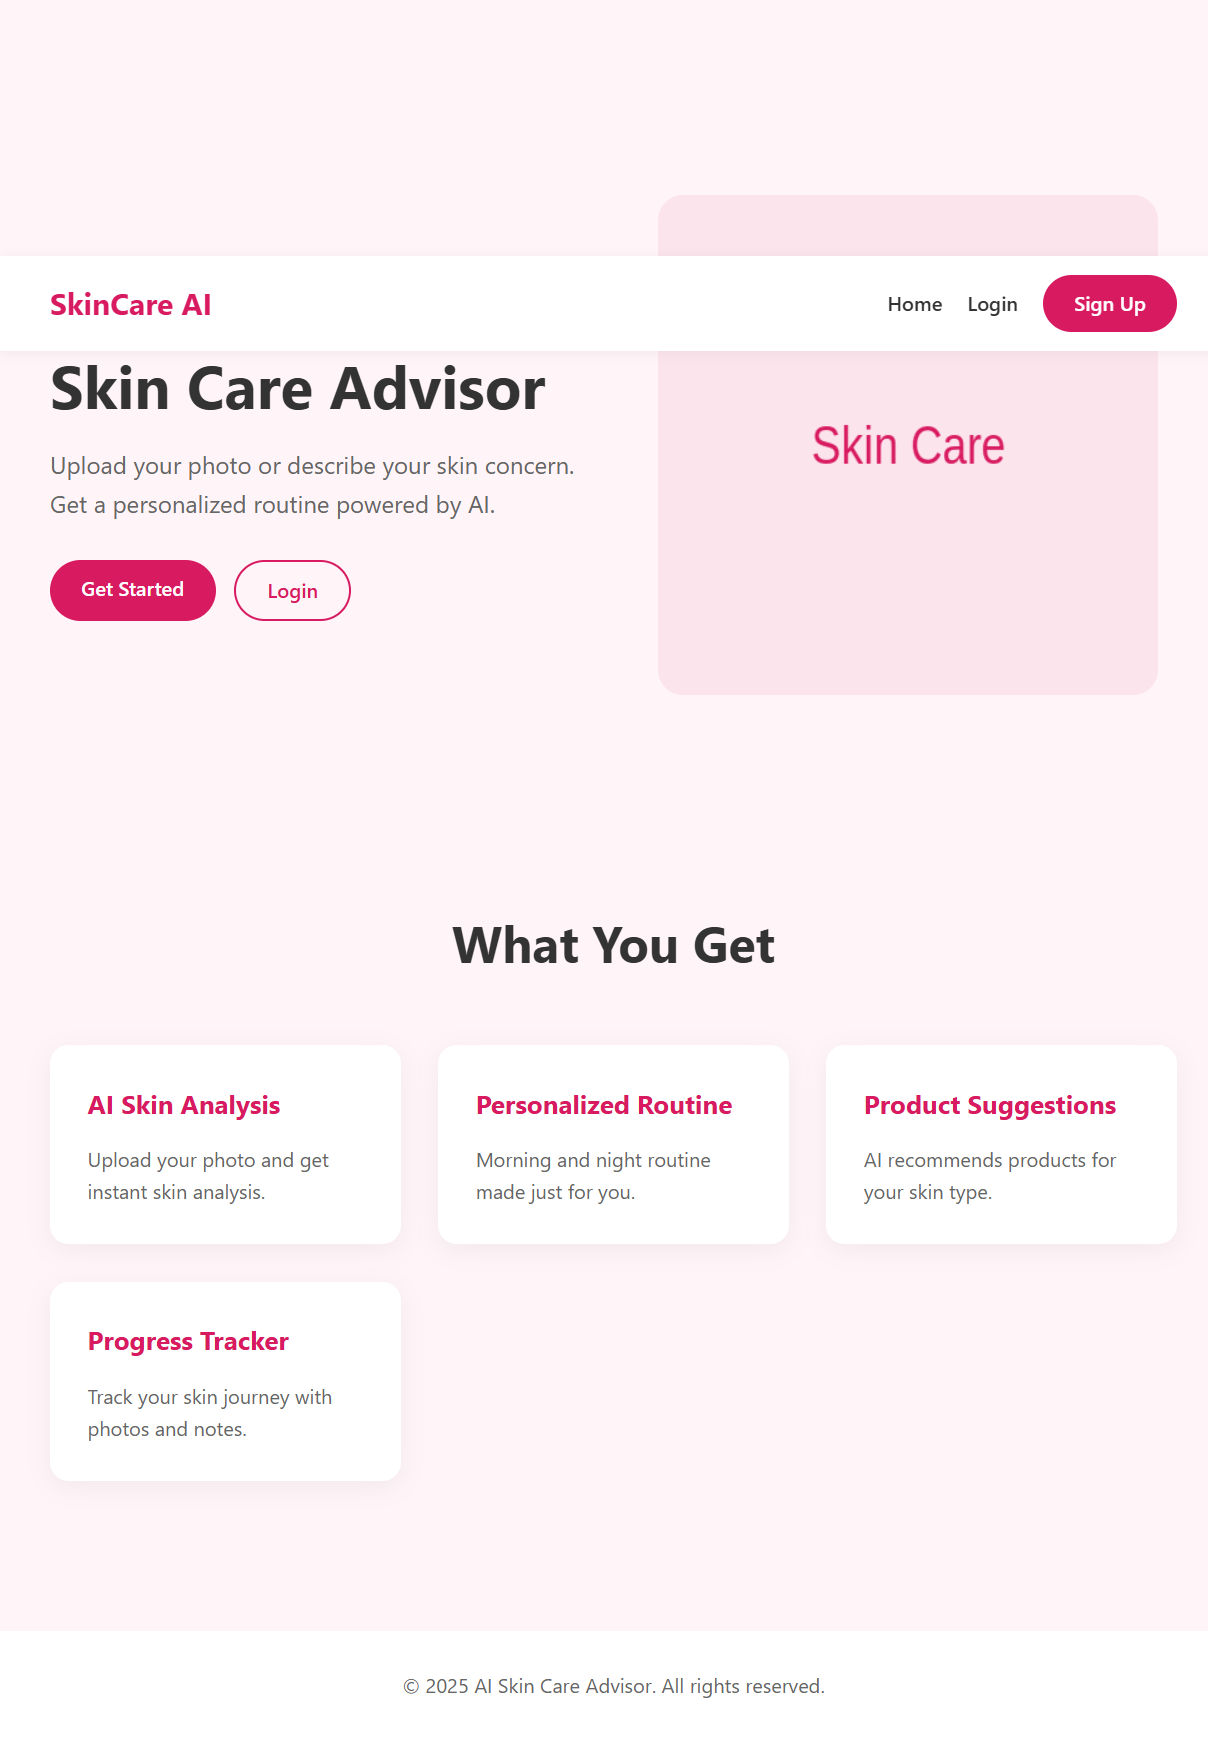
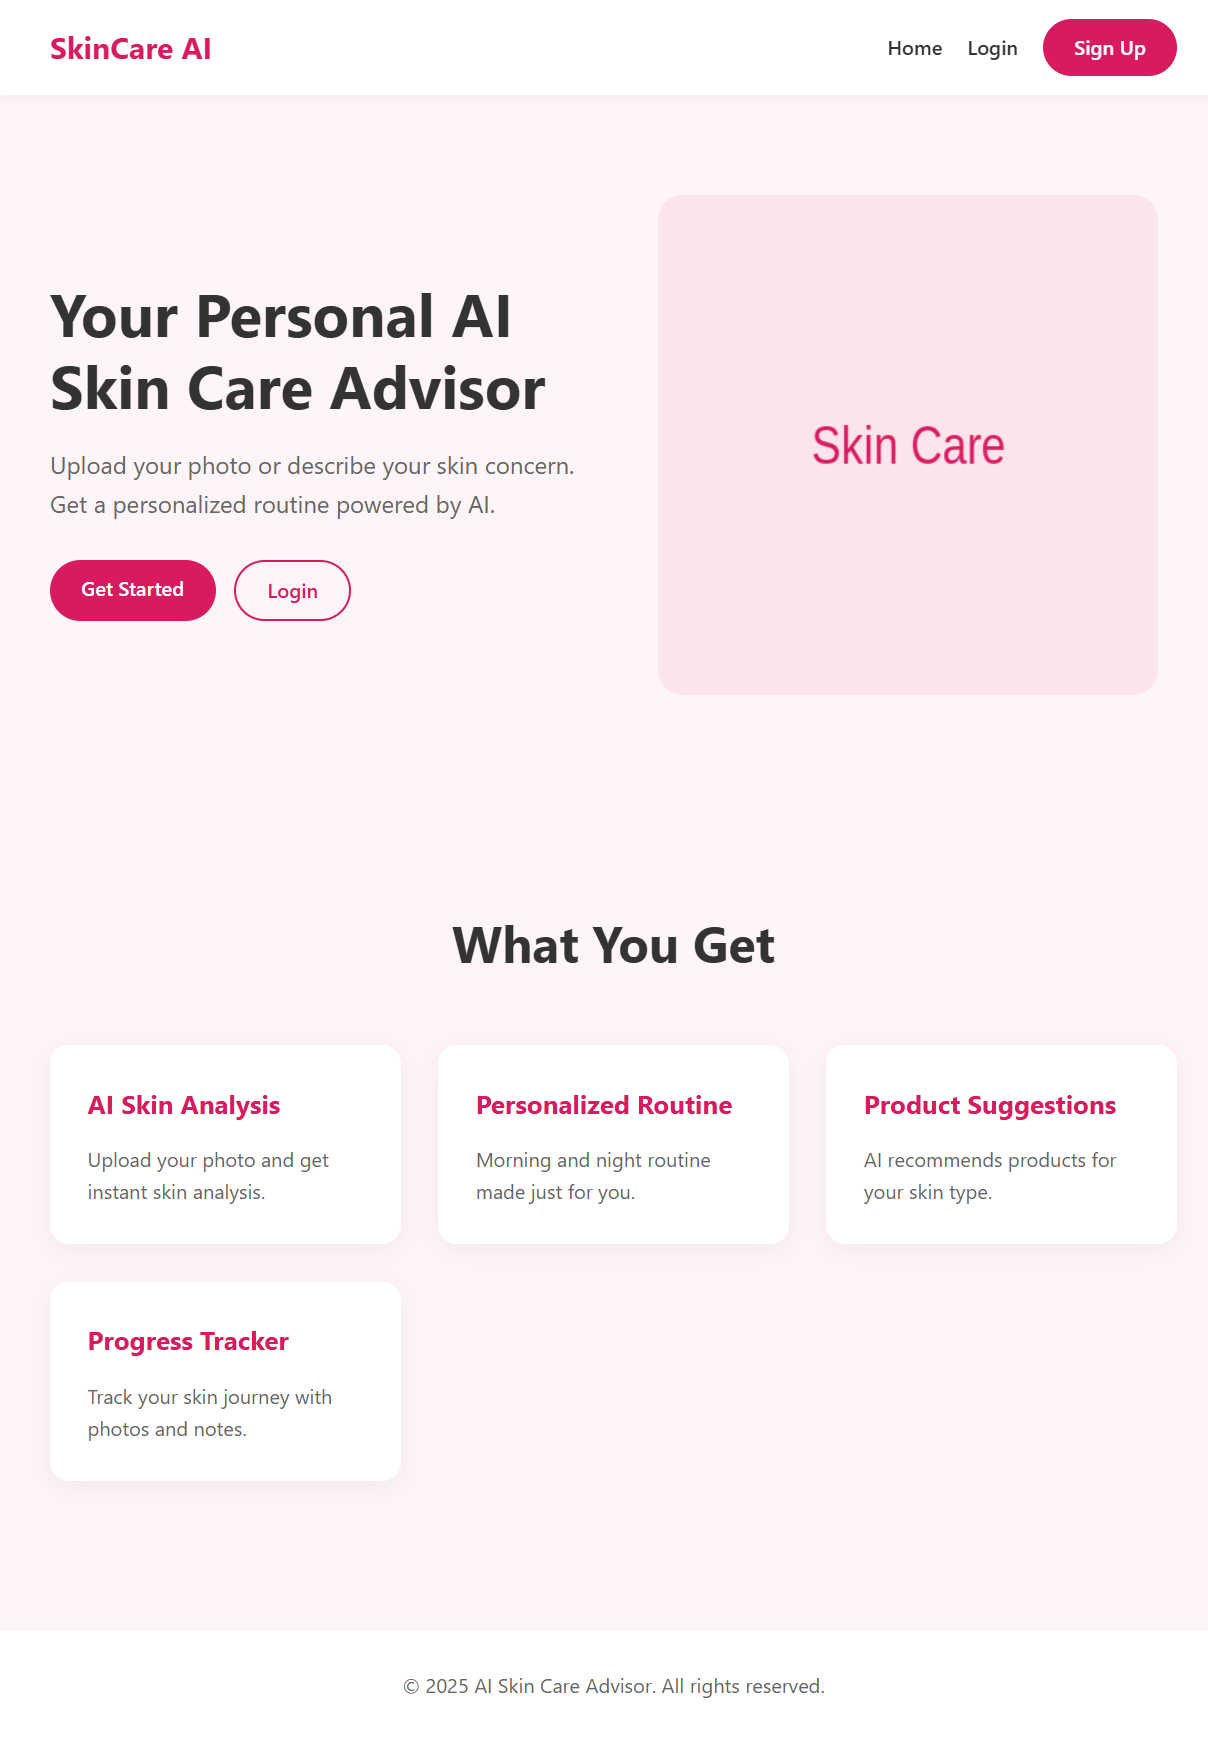
Add screenshots to README

diff --git a/README.md b/README.md
@@ -25,5 +25,26 @@ A full-stack AI-powered skincare web application that generates personalized ski
 **Database:** MongoDB Atlas, Mongoose
 **AI:** Groq API (Llama 3.3 70B)
 **Deployment:** Vercel (Frontend), Render (Backend)
+## 📸 Screenshots
+
+### 🏠 Landing Page
+![Landing Page](screenshots/homepage.png)
+
+### 📊 Dashboard
+![Dashboard](screenshots/dashboard.png)
+
+### 🤖 AI Skin Analysis
+![AI Analysis](screenshots/analysis.png)
+
+### 📈 Progress Tracker
+![Progress Tracker](screenshots/progress.png)
+
+### 🔐 Login Page
+![Login](screenshots/login.png)
+
+### 📝 Register Page
+![Register](screenshots/register.png)
+
+---
 
 ## 📂 Project Structure
